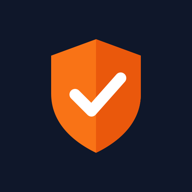
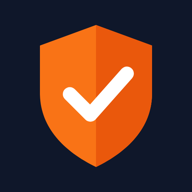
Fix the printed report after the A4 check: shipper names, record-method labels, footer
- Use facility IDs (not names) to find the shipper on the owner's print path
- Put the shipper (facilities.client_name) in the daily report body instead of the first facility name
- Label record methods by origin; merge issue date into the submit date-time; drop the duplicate vehicle class
- Hide the share-view note when printing; localise the page number; stop headers wrapping
- Hide the submit bar on days with no punches; enlarge the shield in the app icon

diff --git a/shugoshin-logbook/src/pages/SharedReportView.tsx b/shugoshin-logbook/src/pages/SharedReportView.tsx
@@ -47,6 +47,8 @@ interface ReportData {
   timeline_snapshot: TimelineEntry[];
   submitted_at: string;
   organization_id: string | null;
+  /** 荷主名を打刻の施設IDから引くために使う。共有リンク経由では持たない */
+  user_id: string | null;
 }
 
 /* (MOCK_REPORT deleted — all data comes from Supabase) */
@@ -78,6 +80,12 @@ function formatDate(dateStr: string): string {
   }
 }
 
+/** 記録方法の表示。証拠の強さが読み手に伝わるよう、記録の出どころを明記する */
+function recordMethodLabel(item: TimelineEntry): string {
+  if (item.evidenceGrade === "C") return "圏外仮記録（承認済）";
+  return item.source === "gps" ? "GPS（サーバー記録）" : "音声（本人申告）";
+}
+
 function parseTimeline(json: Json): TimelineEntry[] {
   if (!Array.isArray(json)) return [];
   return json as unknown as TimelineEntry[];
@@ -106,7 +114,7 @@ export default function SharedReportView() {
       // Case 0: 共有リンク（荷主・ログイン不要）。専用 RPC だけが入口。
       if (token) {
         const { data, error } = await supabase.rpc("get_shared_report", { p_token: token });
-        const r = data as unknown as (Omit<ReportData, "organization_id" | "timeline_snapshot"> & {
+        const r = data as unknown as (Omit<ReportData, "organization_id" | "user_id" | "timeline_snapshot"> & {
           timeline_snapshot: Json;
           carrier_name: string | null;
           shipper_names: string[];
@@ -123,6 +131,7 @@ export default function SharedReportView() {
             timeline_snapshot: parseTimeline(r.timeline_snapshot),
             submitted_at: r.submitted_at,
             organization_id: null,
+            user_id: null,
           });
           setParties({ carrier: r.carrier_name ?? null, shippers: r.shipper_names ?? [] });
         } else {
@@ -152,6 +161,7 @@ export default function SharedReportView() {
             timeline_snapshot: parseTimeline(data.timeline_snapshot),
             submitted_at: data.submitted_at,
             organization_id: data.organization_id,
+            user_id: data.user_id,
           });
           setLoading(false);
           setLoading(false);
@@ -203,6 +213,7 @@ export default function SharedReportView() {
             timeline_snapshot: entries,
             submitted_at: new Date().toISOString(),
             organization_id: null,
+            user_id: user.id,
           });
           setLoading(false);
           setLoading(false);
@@ -231,21 +242,28 @@ export default function SharedReportView() {
           .maybeSingle();
         orgId = data?.organization_id ?? null;
       }
-      const [orgRes, facRes] = await Promise.all([
+      // 荷主名は、提出者がその日に打刻した記録の施設IDから引く。
+      // タイムラインの施設「名」で照合すると、同名の施設があるとき関係のない荷主名が載る。
+      const { start, end } = jstDayRange(report.report_date);
+      const [orgRes, logRes] = await Promise.all([
         orgId
           ? supabase.from("organizations").select("name").eq("id", orgId).maybeSingle()
           : Promise.resolve({ data: null }),
-        supabase.from("facilities").select("name, client_name"),
+        report.user_id
+          ? supabase
+              .from("wait_logs")
+              .select("facility_id")
+              .eq("user_id", report.user_id)
+              .gte("arrival_time", start)
+              .lte("arrival_time", end)
+          : Promise.resolve({ data: [] as { facility_id: string }[] }),
       ]);
-      const visited = new Set(
-        (report.timeline_snapshot ?? []).map((e) => e.locationName).filter(Boolean) as string[],
-      );
+      const facilityIds = Array.from(new Set((logRes.data ?? []).map((l) => l.facility_id)));
+      const facRes = facilityIds.length
+        ? await supabase.from("facilities").select("client_name").in("id", facilityIds)
+        : { data: [] as { client_name: string | null }[] };
       const shippers = Array.from(
-        new Set(
-          (facRes.data ?? [])
-            .filter((f) => visited.has(f.name))
-            .map((f) => f.client_name),
-        ),
+        new Set((facRes.data ?? []).map((f) => f.client_name).filter((n): n is string => !!n)),
       );
       if (!cancelled) setParties({ carrier: orgRes.data?.name ?? null, shippers });
     })();
@@ -313,7 +331,7 @@ export default function SharedReportView() {
   ).length;
 
   const cellClass = "border border-gray-800 px-3 py-2 print:px-2 print:py-1 text-sm";
-  const thClass = "border border-gray-800 px-3 py-2 print:px-2 print:py-1 text-sm font-bold bg-gray-200 print:bg-gray-200 text-left";
+  const thClass = "border border-gray-800 px-3 py-2 print:px-2 print:py-1 text-sm font-bold bg-gray-200 print:bg-gray-200 text-left whitespace-nowrap";
 
   /* ================================================================ */
   /*  Render                                                          */
@@ -354,7 +372,7 @@ export default function SharedReportView() {
           onClick={() => window.print()}
         >
           <Printer className="h-6 w-6" />
-          🖨 この報告書を印刷・PDF保存する
+          この報告書を印刷・PDF保存する
         </Button>
       </div>
 
@@ -415,16 +433,12 @@ export default function SharedReportView() {
             {/* Right: Date / Doc No */}
             <div className="text-right space-y-1 font-mono text-sm shrink-0">
               <div>
-                <span className="text-gray-500">発行日: </span>
-                <span className="font-bold text-black">{formatDate(report.report_date)}</span>
+                <span className="text-gray-500">{report.id.startsWith("live-") ? "作成日時: " : "提出日時: "}</span>
+                <span className="font-bold text-black">{new Date(report.submitted_at).toLocaleString("ja-JP")}</span>
               </div>
               <div>
                 <span className="text-gray-500">報告書番号: </span>
                 <span className="font-bold text-black">{report.id.slice(0, 8).toUpperCase()}</span>
-              </div>
-              <div>
-                <span className="text-gray-500">車格: </span>
-                <span className="font-bold text-black">{report.vehicle_class}</span>
               </div>
             </div>
           </div>
@@ -526,6 +540,7 @@ export default function SharedReportView() {
             <h2 className="text-base font-bold text-black border-b border-black pb-1 mb-4 print:mb-1">
               タイムライン明細
             </h2>
+            <div className="overflow-x-auto print:overflow-visible">
             <table
               className="w-full border-collapse text-black font-mono text-sm"
               style={{ WebkitPrintColorAdjust: "exact", printColorAdjust: "exact" } as React.CSSProperties}
@@ -550,7 +565,7 @@ export default function SharedReportView() {
                         {EVENT_LABELS[item.eventType] || item.eventType}
                       </td>
                       <td className={cellClass}>
-                        {item.source === "gps" ? "GPS" : "音声"}
+                        {recordMethodLabel(item)}
                         {item.evidenceGrade === "C" && (
                           <span
                             className="font-bold"
@@ -573,6 +588,7 @@ export default function SharedReportView() {
                 })}
               </tbody>
             </table>
+            </div>
           </section>
         )}
 
@@ -580,14 +596,11 @@ export default function SharedReportView() {
         {/*  FOOTER — Legal Disclaimer                     */}
         {/* ══════════════════════════════════════════════ */}
         <footer className="border-t-2 border-black mt-12 pt-4 print:mt-4 print:pt-2 break-inside-avoid">
-          <p className="text-xs text-gray-700 font-mono leading-relaxed">
-            ※本システムにより、送信および閲覧ログ（IP・タイムスタンプ）は法的に保全されています。
-          </p>
-          <p className="text-xs text-gray-500 mt-1 font-mono">
-            提出日時: {new Date(report.submitted_at).toLocaleString("ja-JP")}
+          <p className="text-xs text-gray-700 font-mono leading-relaxed print:hidden">
+            ※共有リンクで開かれた回数と最終閲覧日時は記録されます。
           </p>
           <p className="text-xs text-gray-400 mt-3 font-mono text-right">
-            — 本書は電子的に生成された正式な報告書です —
+            — 本書は電子的に生成されました —
           </p>
         </footer>
       </article>

diff --git a/shugoshin-logbook/src/pages/DailyReportConfirm.tsx b/shugoshin-logbook/src/pages/DailyReportConfirm.tsx
@@ -76,7 +76,7 @@ export default function DailyReportConfirm() {
   const navigate = useNavigate();
   const { user } = useAuth();
   const { orgId } = useOrganization();
-  const { timeline, vehicleClass, totalWaitMinutes, totalWaitCost, hasDiscrepancy, loading, alreadySubmitted, latestFormalReport } = useDailyTimeline();
+  const { timeline, vehicleClass, totalWaitMinutes, totalWaitCost, hasDiscrepancy, loading, alreadySubmitted, latestFormalReport, shipperNames } = useDailyTimeline();
   const [submitting, setSubmitting] = useState(false);
 
   // Dialog & editable parameters
@@ -91,8 +91,12 @@ export default function DailyReportConfirm() {
     setDraftExtraWork(hasExtraWork);
     setDialogOpen(true);
   };
-  // Derive shipper name from timeline data (first location found)
-  const derivedShipper = timeline.find((t) => t.location)?.location ?? "（荷主未記録）";
+  // 荷主名は、その日に打刻した施設の荷主（facilities.client_name）。
+  // 以前は最初の施設「名」を入れていたため、報告書の宛名（荷主名）と食い違った。
+  const derivedShipper =
+    shipperNames.length > 0
+      ? shipperNames.join("、")
+      : timeline.find((t) => t.shipperName)?.shipperName ?? "（荷主未記録）";
 
   // Sync hook data into editable state
   useEffect(() => {
@@ -537,6 +541,8 @@ export default function DailyReportConfirm() {
       </div>
 
       {/* ========== 4. Fixed footer with press-hold button ========== */}
+      {/* 記録0件の日は、押せない提出バーを出さない（打刻へ誘導する表示が上にある） */}
+      {(loading || timeline.length > 0 || alreadySubmitted) && (
       <div className="fixed bottom-[calc(60px+env(safe-area-inset-bottom))] left-0 right-0 z-20 bg-background/95 backdrop-blur border-t border-border px-4 py-2">
         {alreadySubmitted ? (
           <div className="flex flex-col items-center justify-center h-14 gap-0.5">
@@ -586,6 +592,7 @@ export default function DailyReportConfirm() {
           </div>
         )}
       </div>
+      )}
 
       <div className="print:hidden">
         <BottomNav />

diff --git a/shugoshin-logbook/src/hooks/useDailyTimeline.ts b/shugoshin-logbook/src/hooks/useDailyTimeline.ts
@@ -46,6 +46,8 @@ export interface DailyTimelineResult {
   loading: boolean;
   alreadySubmitted: boolean;
   latestFormalReport: string | null;
+  /** その日に打刻した施設の荷主名（facilities.client_name）。施設名ではない */
+  shipperNames: string[];
 }
 
 // ---------- Event label mapping ----------
@@ -103,6 +105,7 @@ export function useDailyTimeline(): DailyTimelineResult {
   const [loading, setLoading] = useState(true);
   const [alreadySubmitted, setAlreadySubmitted] = useState(false);
   const [latestFormalReport, setLatestFormalReport] = useState<string | null>(null);
+  const [shipperNames, setShipperNames] = useState<string[]>([]);
 
   const fetchTimeline = useCallback(async () => {
     if (!user) {
@@ -150,7 +153,7 @@ export function useDailyTimeline(): DailyTimelineResult {
         .gte("arrival_time", todayStart)
         .lte("arrival_time", todayEnd)
         .order("arrival_time", { ascending: true }),
-      supabase.from("facilities").select("id, name"),
+      supabase.from("facilities").select("id, name, client_name"),
     ]);
 
     const vc = profileRes.data?.vehicle_class ?? "4t";
@@ -226,6 +229,17 @@ export function useDailyTimeline(): DailyTimelineResult {
         claimed_end_at: wl.claimed_end_at,
         self_approved: wl.self_approved,
       }));
+      const visitedIds = new Set(waitLogRows.map((w) => w.facility_id));
+      setShipperNames(
+        Array.from(
+          new Set(
+            (facilitiesRes.data ?? [])
+              .filter((f) => visitedIds.has(f.id))
+              .map((f) => f.client_name)
+              .filter((n): n is string => !!n),
+          ),
+        ),
+      );
       const { entries } = convertWaitLogsToTimeline(waitLogRows, facilityMap);
       for (const entry of entries) {
         const wm = entry.waitMinutes ?? 0;
@@ -292,5 +306,6 @@ export function useDailyTimeline(): DailyTimelineResult {
     loading,
     alreadySubmitted,
     latestFormalReport,
+    shipperNames,
   };
 }

diff --git a/shugoshin-logbook/src/index.css b/shugoshin-logbook/src/index.css
@@ -146,7 +146,7 @@
     margin: 10mm;
 
     @bottom-center {
-      content: "Page " counter(page);
+      content: counter(page) " ページ";
       font-size: 8pt;
       color: #666;
     }

diff --git a/shugoshin-logbook/STATUS.md b/shugoshin-logbook/STATUS.md
@@ -14,28 +14,32 @@
    E9 配送完了ボタン、E14 承認の確認、E16 保存後の位置。必ず失敗していた「承認の取り消し」ボタンも外した。
    P1 も処理済み: E10〜E13 日報、E15 温度帯・納品日（入力文から補う。AI 側は未変更）、E17 管理 DB のモーダル削除、
    E18 ヘッダー統一（`PageHeader`）、E19 絵文字・承認ボタン色、E20 レポートの断言、E21/C3 ホバー色、T21。
-   残り（本人の判断待ち）: E1・E4・E6 のデモ用データ（本番 DB のデータ）、E7 会場での打刻（圏外）、
-   T6 役割別タブ（Q2 の回答待ち）。ログイン後の画面の目視は未確認。
-1. 10/4 に直した画面を目視で確認する（`npm run dev`、375px 幅）。
-   新アイコンが小サイズ（24〜40px）で読めるか／日報の提出バーが下部ナビと重ならないか／
-   発注の「AI解析」ボタンが収まるか。
-   確認済み（2026-10-04、ヘッドレス Chrome の 375px 表示）: ログイン画面と `/demo` は横はみ出しなし。
-   アイコンは 32px 以上で読め、24px はチェックマークがやっと分かる程度（盾を枠いっぱいに大きくする余地あり）。
-   `/demo` の3つ並びの枠の折り返しは修正済み（1fcca2b）。
-   未確認: 日報の提出バーとナビの重なり、AI解析ボタン（ログインが要る。コード上は重ならない作り）。
+   残り（本人の判断待ち）: E1・E4・E6 のデモ用データ（デモデータの出し方 A/B の回答待ち。§2b）。
+   E7 会場での打刻は `/demo` で見せる、T6 役割別タブは「ドライバー主・管理者・荷主はリンクのみ」で決定（2026-10-05）。
+1. ~~10/4 に直した画面を目視で確認する~~ **完了（2026-10-05、本人が 375px・ローカル最新で確認）**:
+   提出バーとナビの重なりなし／AI解析ボタンは収まる／アイコン 24px は判別可（盾を枠いっぱいに拡大する案を採用し、アイコンを作り直した）。
+   記録0件の日は提出バーを隠す（本人の指示で実施）。
 2. `/demo` と、組織に所属したアカウントの正常系を入口から最後まで操作して、崩れ・生のエラー表示を洗い出す。
 3. UI レビューの残り（2026-10-04 追加。R1 の GPS 再取得は再読み込みをやめて修正済み）:
    R2 日報の下部の固定要素（約164px→約133px に圧縮済み。さらに減らすなら提出バーの出し方を見直す）／R3 「承認済」の緑が色の直書き（色トークン整備でまとめて直す）／
    ヘッダー様式が画面ごとに違う／（日報の提出ボタンの無効理由と、「組織未所属」の二重表示は修正済み。発注画面の赤ボックスを控えめな1行に変えた）／絵文字とアイコンの混在。
 4. UI 改善の B: ghost/outline の hover がオレンジ塗りになる（C3）、無効ボタンの理由が出ない（N9。日報の提出ボタンは修正済み、ほかの画面は未確認）。
-5. 「争われたとき」の見せ方を確認する。帳票 PDF の証跡表示が、読み手に分かりやすいか。
+5. ~~「争われたとき」の見せ方を確認する~~ **完了（2026-10-05）**。帳票（`SharedReportView.tsx`）の確認と本人の印刷確認（4/9提出分・A4・1ページ）を踏まえて直したもの:
+   持ち主の印刷経路の荷主名を施設名照合から施設ID照合へ（R4 の共有リンク側と同じ穴）／日報本文の「荷主様」が最初の施設名になっていて宛名（荷主名）と食い違っていたのを、
+   打刻した施設の荷主名（`facilities.client_name`）にそろえた（`useDailyTimeline` の `shipperNames`）／
+   フッターの「IP・タイムスタンプが法的に保全」を実際の記録内容に直し、印刷時は非表示／「正式な報告書」を削除／印刷の「Page 1」を「1 ページ」に／
+   列見出しの折り返し防止／車格の重複を削除／右上「発行日」を「提出日時」にして最下部の提出日時と統合／
+   記録方法の列を「GPS（サーバー記録）／音声（本人申告）／圏外仮記録（承認済）」に。
+   未確認: 修正後の印刷プレビュー（ログインと提出済みの日報が要る）、スマホ幅での表の横スクロール。
 
-## 2b. 本人の回答待ち（2026-10-04）
+## 2b. 本人の回答待ち（2026-10-05 更新）
 
-- ブランド色（紺・オレンジ）の意味づけ。
-- 主な操作者（ドライバー／荷主／運送会社の管理者のどれを一番に想定するか）。
-  この2つが決まれば、色トークン整備（T1）とヘッダー様式・絵文字の統一（T2、T3、T6、T7）に進める。
-- E1・E4・E6 のデモ用データ（本番 DB のデータ）の扱い、E7 会場での打刻（圏外）、T6 役割別タブ（Q2）。§2-0 の「本人の判断待ち」と同じ件。
+決まったこと（2026-10-05）: 主な操作者はドライバー。管理者が次、荷主は共有リンクを見るだけ。役割別タブ（T6）もこれで決定。
+会場での打刻（E7）は、ポートフォリオ用には `/demo` で見せる。
+
+まだ回答待ち:
+- ブランド色（紺・オレンジ）の意味づけ。決まれば色トークン整備（T1）とヘッダー様式・絵文字の統一（T2、T3、T7）に進める。
+- デモデータの出し方。A: `/demo` だけを公開する／B: デモ用の Supabase プロジェクトを別に作る。E1・E4・E6（本番 DB のデータの扱い）はこの回答で決まる。
   UI 修正のメモは `ui-review/shugoshin-ui-fix-tasks.md`（このリポジトリの外）にあり、R1・R2 の修正済みと
   提出ボタンの理由表示・組織未所属の二重表示の修正済み、および E1〜E21 の修正済み分は、まだそちらに反映されていない。
 
